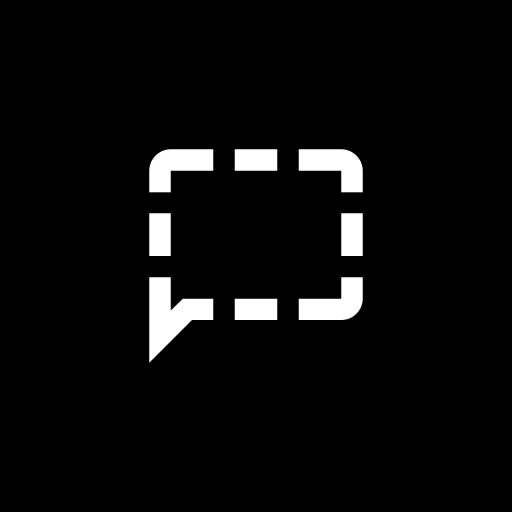
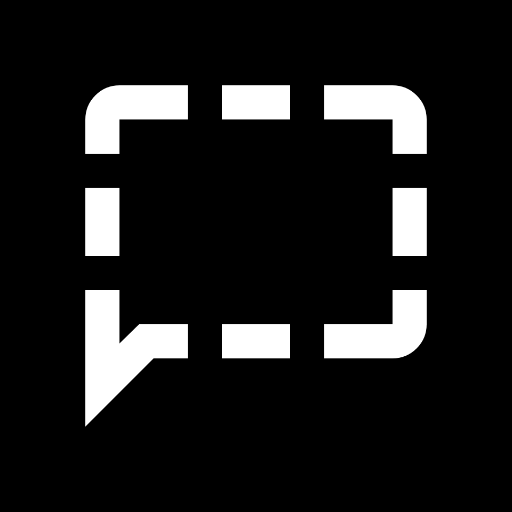
some forground task fixes

diff --git a/lib/settings/presentation/settings_screen.dart b/lib/settings/presentation/settings_screen.dart
@@ -81,6 +81,7 @@ class _SettingsScreenState extends State<SettingsScreen> {
                   // Username field
                   _UsernameField(
                     controller: _usernameController,
+                    username: data.username,
                     theme: theme,
                     isEditing: _isEditingUsername,
                     onEditToggle: () {
@@ -163,6 +164,7 @@ class _SectionHeader extends StatelessWidget {
 
 class _UsernameField extends StatelessWidget {
   final TextEditingController controller;
+  final String username;
   final WhispTheme theme;
   final bool isEditing;
   final VoidCallback onEditToggle;
@@ -170,6 +172,7 @@ class _UsernameField extends StatelessWidget {
 
   const _UsernameField({
     required this.controller,
+    required this.username,
     required this.theme,
     required this.isEditing,
     required this.onEditToggle,
@@ -193,7 +196,7 @@ class _UsernameField extends StatelessWidget {
               children: [
                 Text('Username', style: theme.caption),
                 const SizedBox(height: 4),
-                isEditing
+isEditing
                     ? TextFormField(
                         controller: controller,
                         onChanged: onChanged,
@@ -207,7 +210,7 @@ class _UsernameField extends StatelessWidget {
                           hintStyle: theme.caption,
                         ),
                       )
-                    : Text(controller.text, style: theme.body),
+                    : Text(username, style: theme.body),
               ],
             ),
           ),

diff --git a/lib/notifications/infrastructure/notification_service.dart b/lib/notifications/infrastructure/notification_service.dart
@@ -79,8 +79,8 @@ class NotificationService implements INotificationService {
     }
 
     try {
-      // Android initialization settings
-      const androidSettings = AndroidInitializationSettings('@mipmap/launcher_icon');
+      // Android initialization settings - use monochrome icon for status bar
+      const androidSettings = AndroidInitializationSettings('@drawable/ic_launcher_monochrome');
 
       const initSettings = InitializationSettings(android: androidSettings);
 
@@ -202,7 +202,7 @@ class NotificationService implements INotificationService {
         channelDescription: _messageChannel.description,
         importance: Importance.high,
         priority: Priority.high,
-        icon: '@mipmap/launcher_icon',
+        icon: '@drawable/ic_launcher_monochrome',
         ticker: 'New message',
         category: AndroidNotificationCategory.message,
         styleInformation: BigTextStyleInformation(body),

diff --git a/lib/foreground_task/infrastructure/foreground_task_service.dart b/lib/foreground_task/infrastructure/foreground_task_service.dart
@@ -112,8 +112,11 @@ class ForegroundTaskService implements IForegroundTaskService {
       }
 
       await FlutterForegroundTask.startService(
-        notificationTitle: '🔐 Whisp is Connected',
+        notificationTitle: 'Whisp is Connected',
         notificationText: 'You are online and connected to Tor network',
+        notificationIcon: const NotificationIcon(
+          metaDataName: 'com.whisp.notification_icon',
+        ),
         callback: startCallback,
       );
 

diff --git a/lib/common/widgets/logo.dart b/lib/common/widgets/logo.dart
@@ -11,7 +11,11 @@ class Logo extends StatelessWidget {
       height: size,
       child: ClipRRect(
         borderRadius: BorderRadius.circular(999),
-        child: Image.asset('assets/images/png/play_store_512.png'),
+        child: Container(
+          color: Colors.black,
+          padding: const EdgeInsets.all(16),
+          child: Image.asset('assets/images/png/play_store_512.png'),
+        ),
       ),
     );
   }
